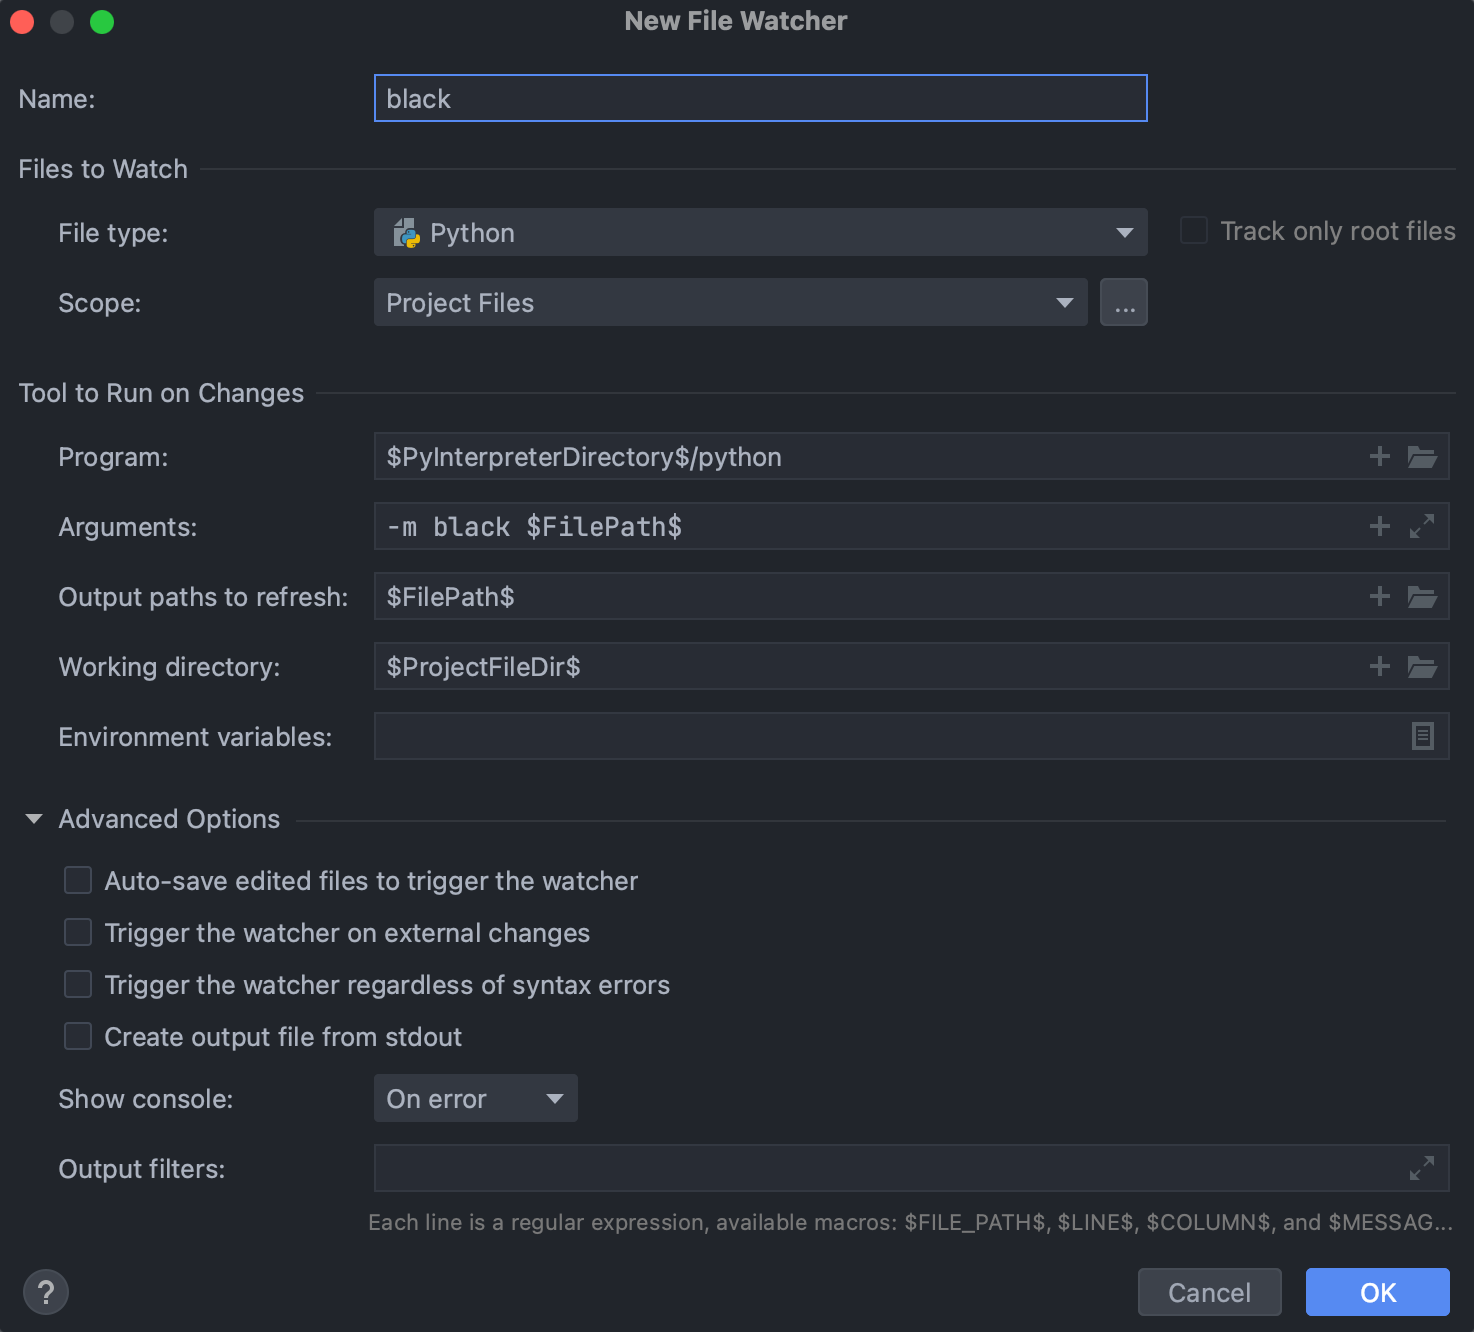
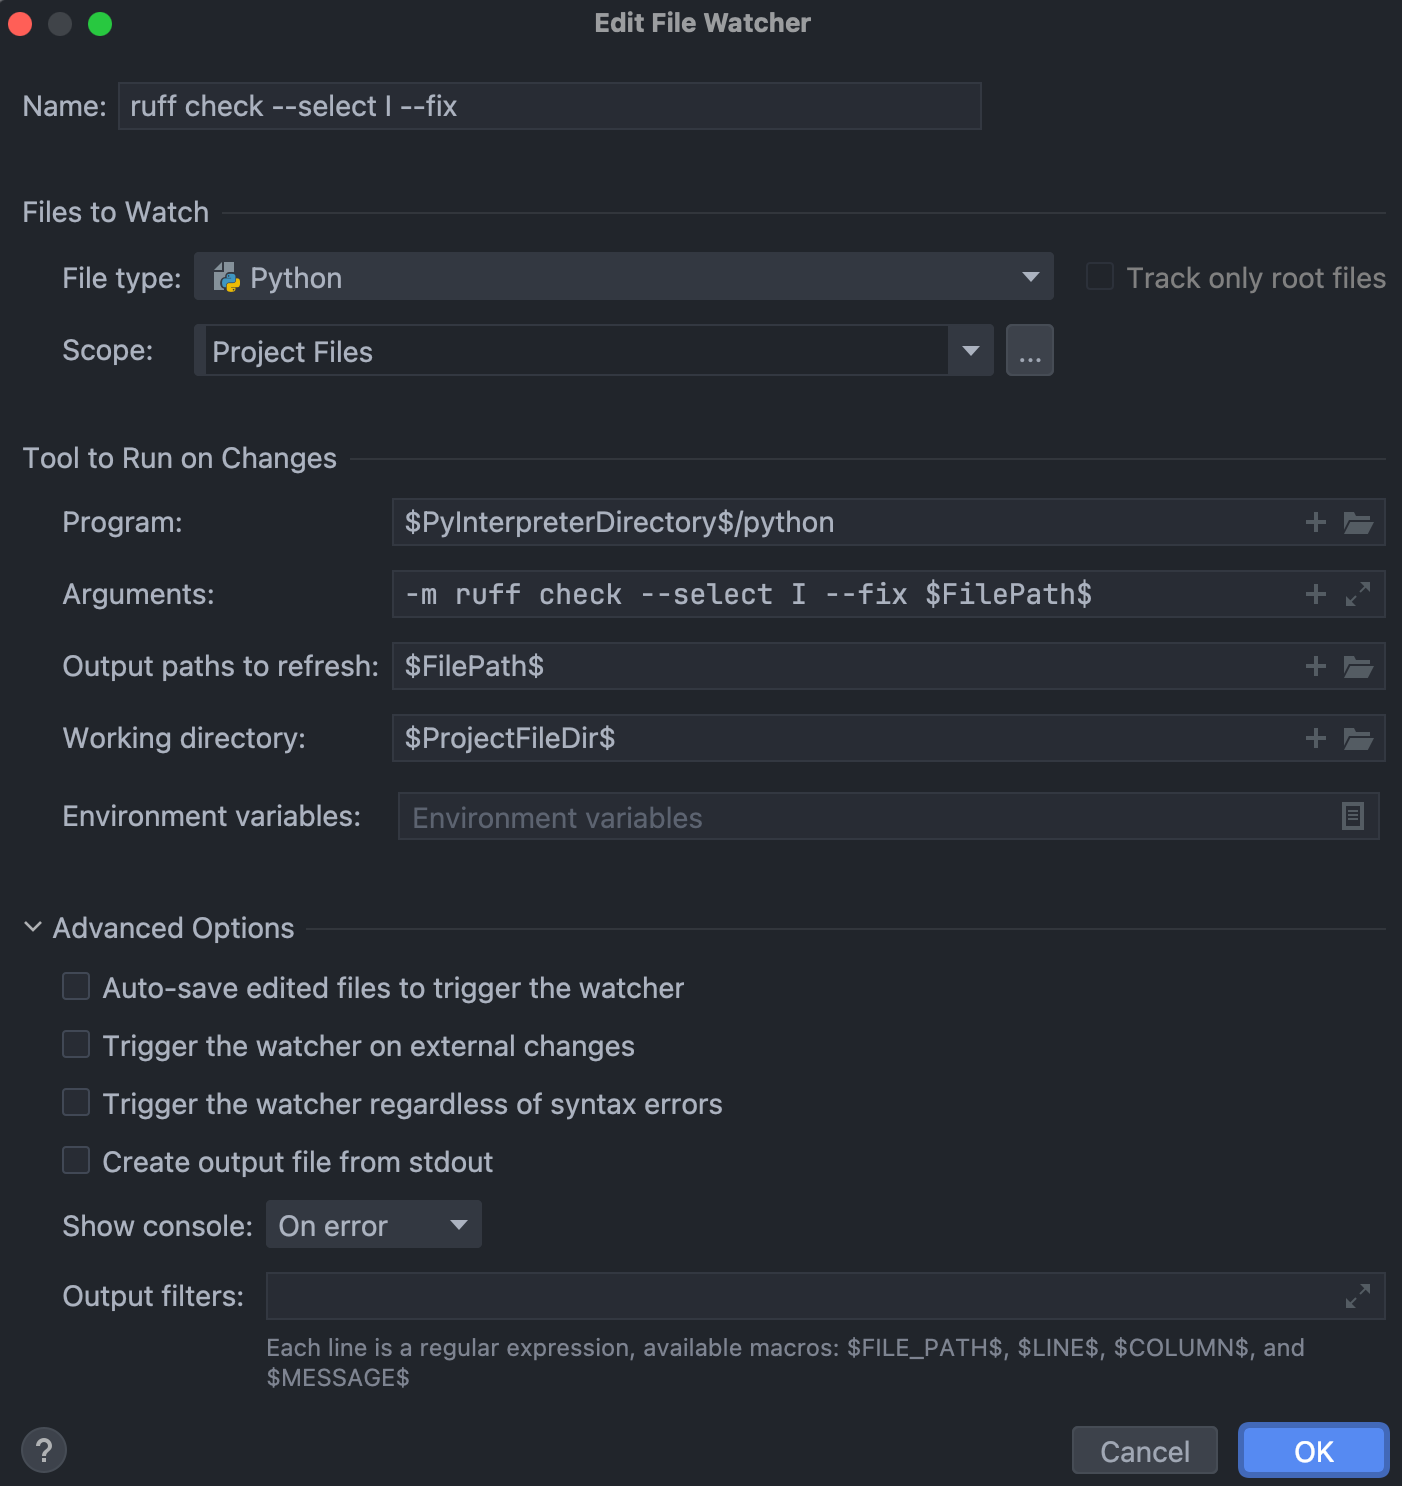
Replace Black with Ruff format (#203)
* Replace black with Ruff format

* Fold fmt_check session into lint

diff --git a/noxfile.py b/noxfile.py
@@ -1,12 +1,14 @@
 from pathlib import Path
 from tempfile import NamedTemporaryFile
+from typing import List
 
 import nox
+from nox import parametrize
 from nox_poetry import Session, session
 
 nox.options.error_on_external_run = True
 nox.options.reuse_existing_virtualenvs = True
-nox.options.sessions = ["fmt_check", "lint", "type_check", "test", "docs"]
+nox.options.sessions = ["lint", "type_check", "test", "docs"]
 
 
 @session(python=["3.8", "3.9", "3.10", "3.11", "3.12"])
@@ -29,18 +31,19 @@ def test(s: Session) -> None:
 @session(venv_backend="none")
 def fmt(s: Session) -> None:
     s.run("ruff", "check", ".", "--select", "I", "--fix")
-    s.run("black", ".")
+    s.run("ruff", "format", ".")
 
 
 @session(venv_backend="none")
-def fmt_check(s: Session) -> None:
-    s.run("ruff", "check", ".", "--select", "I")
-    s.run("black", "--check", ".")
-
-
-@session(venv_backend="none")
-def lint(s: Session) -> None:
-    s.run("ruff", "check", ".")
+@parametrize(
+    "command",
+    [
+        ["ruff", "check", "."],
+        ["ruff", "format", "--check", "."],
+    ],
+)
+def lint(s: Session, command: List[str]) -> None:
+    s.run(*command)
 
 
 @session(venv_backend="none")

diff --git a/README.md b/README.md
@@ -3,14 +3,12 @@
 [![GitHub Actions][github-actions-badge]](https://github.com/johnthagen/python-blueprint/actions)
 [![Poetry][poetry-badge]](https://python-poetry.org/)
 [![Nox][nox-badge]](https://github.com/wntrblm/nox)
-[![Code style: Black][black-badge]](https://github.com/psf/black)
 [![Ruff][ruff-badge]](https://github.com/astral-sh/ruff)
 [![Type checked with mypy][mypy-badge]](https://mypy-lang.org/)
 
 [github-actions-badge]: https://github.com/johnthagen/python-blueprint/workflows/python/badge.svg
 [poetry-badge]: https://img.shields.io/endpoint?url=https://python-poetry.org/badge/v0.json
 [nox-badge]: https://img.shields.io/badge/%F0%9F%A6%8A-Nox-D85E00.svg
-[black-badge]: https://img.shields.io/badge/code%20style-black-000000.svg
 [ruff-badge]: https://img.shields.io/endpoint?url=https://raw.githubusercontent.com/astral-sh/ruff/main/assets/badge/v2.json
 [mypy-badge]: https://www.mypy-lang.org/static/mypy_badge.svg
 
@@ -152,12 +150,14 @@ To pass arguments to `pytest` through `nox`:
 
 ## Code Style Checking
 
-[PEP 8](https://peps.python.org/pep-0008/) is the universally accepted style guide for
-Python code. PEP 8 code compliance is verified using [Ruff](https://github.com/astral-sh/ruff).
-Ruff is configured in the `[tool.ruff]` section of `pyproject.toml`.
+[PEP 8](https://peps.python.org/pep-0008/) is the universally accepted style guide for Python
+code. PEP 8 code compliance is verified using [Ruff][Ruff]. Ruff is configured in the
+`[tool.ruff]` section of [`pyproject.toml`](./pyproject.toml).
 
-Some code style settings are included in [`.editorconfig`](./.editorconfig) and will be
-configured automatically in editors such as PyCharm.
+[Ruff]: https://github.com/astral-sh/ruff
+
+Some code style settings are included in [`.editorconfig`](./.editorconfig) and will be configured
+automatically in editors such as PyCharm.
 
 To lint code, run:
 
@@ -173,23 +173,12 @@ To automatically fix fixable lint errors, run:
 
 ## Automated Code Formatting
 
-Code is automatically formatted using [black](https://github.com/psf/black). Imports are
-automatically sorted and grouped using [Ruff](https://github.com/astral-sh/ruff).
-
-These tools are configured by:
-
-- [`pyproject.toml`](./pyproject.toml)
+[Ruff][Ruff] is used to automatically format code and group and sort imports.
 
 To automatically format code, run:
 
 ```bash
 (fact) $ nox -s fmt
-```
-
-To verify code has been formatted, such as in a CI job:
-
-```bash
-(fact) $ nox -s fmt_check
 ```
 
 ## Type Checking
@@ -506,15 +495,21 @@ project:
   - Editor | Code Style | Python | Wrapping and Braces | "From" Import Statements
     - ☑ Force parentheses if multiline
 
-## Integrate Code Formatters
+## Ruff Integration
 
-> Also consider installing the
-> [Ruff PyCharm Plugin](https://plugins.jetbrains.com/plugin/20574-ruff).
+Integrate [Ruff](https://docs.astral.sh/ruff/integrations/#pycharm-external-tool) linting and 
+formatting into PyCharm.
 
-To integrate
-[Black](https://black.readthedocs.io/en/stable/integrations/editors.html#pycharm-intellij-idea) and
-[Ruff](https://beta.ruff.rs/docs/editor-integrations/#pycharm-external-tool) automatic code
-formatters into PyCharm:
+### Linting and Formatting
+
+1. Install the [Ruff PyCharm Plugin](https://plugins.jetbrains.com/plugin/20574-ruff)
+2. Open Preferences or Settings | Tools | Ruff and enable
+    - Run Ruff when the python file is saved
+    - Use ruff format
+
+Now, on <kbd>ctrl+s</kbd>, the current source file will be automatically formatted on save.
+
+### Import Sorting
 
 1. Ensure that the [File Watchers Plugin](https://plugins.jetbrains.com/plugin/7177-file-watchers)
    is installed.
@@ -523,11 +518,11 @@ formatters into PyCharm:
  ![](docs/static/images/preferences.png)
 
 3. Fill in the following fields
-    - **Name**: `black`
+    - **Name**: `ruff check --select I --fix`
     - **File Type**: Python
     - **Scope**: Project Files
     - **Program**: `$PyInterpreterDirectory$/python`
-    - **Arguments**: `-m black $FilePath$`
+    - **Arguments**: `-m ruff check --select I --fix $FilePath$`
     - **Output paths to refresh**: `$FilePath$`
     - **Working directory**: `$ProjectFileDir$`
     - **Advanced Options**
@@ -535,13 +530,6 @@ formatters into PyCharm:
       - **Uncheck**: Trigger the watcher on external changes
 
   ![](docs/static/images/file_watcher.png)
-
-4. Copy the watcher, and replace references to `black` in the **Name** and **Arguments** fields to
-   `ruff check --select I --fix`.
-
-![](docs/static/images/file_watcher_copy.png)
-
-Now, on `Ctrl+S`, the current source file will be automatically formatted on save.
 
 > **Tip**
 >
